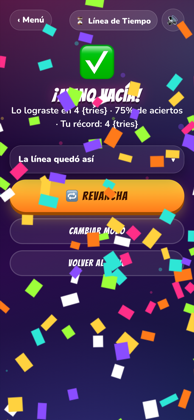
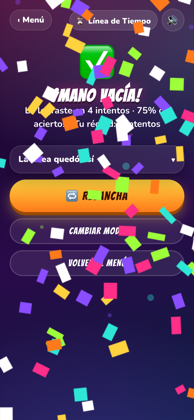
Fix: '{tries}' visible en el solitario; docs del modo solo que quedaron sin escribir

diff --git a/index.html b/index.html
@@ -10,8 +10,8 @@
   <meta name="description" content="Juegos de salón para jugar con amigos: elige un juego, ingresa a los jugadores y deja que el celular guíe la partida.">
   <link rel="manifest" href="manifest.webmanifest">
   <link rel="icon" href="assets/icon.svg" type="image/svg+xml">
-  <script type="importmap" id="importmap">{"imports": {"./assets/js/ui.js": "./assets/js/ui.js?v=0.9.2", "./assets/js/i18n.js": "./assets/js/i18n.js?v=0.9.2", "./assets/js/sound.js": "./assets/js/sound.js?v=0.9.2", "./assets/js/games.js": "./assets/js/games.js?v=0.9.2", "./assets/js/firebase-config.js": "./assets/js/firebase-config.js?v=0.9.2", "./assets/js/frases.js": "./assets/js/frases.js?v=0.9.2", "./cuarto-rey/game.js": "./cuarto-rey/game.js?v=0.9.2", "./cuarto-rey/rules.js": "./cuarto-rey/rules.js?v=0.9.2", "./toque-y-fama/game.js": "./toque-y-fama/game.js?v=0.9.2", "./toque-y-fama/rules.js": "./toque-y-fama/rules.js?v=0.9.2", "./toque-y-fama/engine.js": "./toque-y-fama/engine.js?v=0.9.2", "./assets/js/transport/local.js": "./assets/js/transport/local.js?v=0.9.2", "./assets/js/transport/firebase.js": "./assets/js/transport/firebase.js?v=0.9.2", "./assets/js/handoff.js": "./assets/js/handoff.js?v=0.9.2", "./assets/js/session.js": "./assets/js/session.js?v=0.9.2", "./batalla-naval/game.js": "./batalla-naval/game.js?v=0.9.2", "./batalla-naval/rules.js": "./batalla-naval/rules.js?v=0.9.2", "./batalla-naval/engine.js": "./batalla-naval/engine.js?v=0.9.2", "./linea-de-tiempo/game.js": "./linea-de-tiempo/game.js?v=0.9.2", "./linea-de-tiempo/rules.js": "./linea-de-tiempo/rules.js?v=0.9.2", "./linea-de-tiempo/engine.js": "./linea-de-tiempo/engine.js?v=0.9.2", "./linea-de-tiempo/decks/index.js": "./linea-de-tiempo/decks/index.js?v=0.9.2", "./linea-de-tiempo/decks/historia.js": "./linea-de-tiempo/decks/historia.js?v=0.9.2", "./linea-de-tiempo/decks/musica.js": "./linea-de-tiempo/decks/musica.js?v=0.9.2"}}</script>
-  <link rel="stylesheet" href="assets/css/base.css?v=0.9.2">
+  <script type="importmap" id="importmap">{"imports": {"./assets/js/ui.js": "./assets/js/ui.js?v=0.9.3", "./assets/js/i18n.js": "./assets/js/i18n.js?v=0.9.3", "./assets/js/sound.js": "./assets/js/sound.js?v=0.9.3", "./assets/js/games.js": "./assets/js/games.js?v=0.9.3", "./assets/js/firebase-config.js": "./assets/js/firebase-config.js?v=0.9.3", "./assets/js/frases.js": "./assets/js/frases.js?v=0.9.3", "./cuarto-rey/game.js": "./cuarto-rey/game.js?v=0.9.3", "./cuarto-rey/rules.js": "./cuarto-rey/rules.js?v=0.9.3", "./toque-y-fama/game.js": "./toque-y-fama/game.js?v=0.9.3", "./toque-y-fama/rules.js": "./toque-y-fama/rules.js?v=0.9.3", "./toque-y-fama/engine.js": "./toque-y-fama/engine.js?v=0.9.3", "./assets/js/transport/local.js": "./assets/js/transport/local.js?v=0.9.3", "./assets/js/transport/firebase.js": "./assets/js/transport/firebase.js?v=0.9.3", "./assets/js/handoff.js": "./assets/js/handoff.js?v=0.9.3", "./assets/js/session.js": "./assets/js/session.js?v=0.9.3", "./batalla-naval/game.js": "./batalla-naval/game.js?v=0.9.3", "./batalla-naval/rules.js": "./batalla-naval/rules.js?v=0.9.3", "./batalla-naval/engine.js": "./batalla-naval/engine.js?v=0.9.3", "./linea-de-tiempo/game.js": "./linea-de-tiempo/game.js?v=0.9.3", "./linea-de-tiempo/rules.js": "./linea-de-tiempo/rules.js?v=0.9.3", "./linea-de-tiempo/engine.js": "./linea-de-tiempo/engine.js?v=0.9.3", "./linea-de-tiempo/decks/index.js": "./linea-de-tiempo/decks/index.js?v=0.9.3", "./linea-de-tiempo/decks/historia.js": "./linea-de-tiempo/decks/historia.js?v=0.9.3", "./linea-de-tiempo/decks/musica.js": "./linea-de-tiempo/decks/musica.js?v=0.9.3"}}</script>
+  <link rel="stylesheet" href="assets/css/base.css?v=0.9.3">
   <style>
     .hero { text-align: center; padding: 28px 0 18px; }
     .hero .emoji { font-size: 3.2rem; display: block; margin-bottom: 6px; }
@@ -57,7 +57,7 @@
 
     <footer>
       <p class="footer-msg" id="footer-msg" aria-live="polite">Toma con responsabilidad y con agua a mano. Si manejas, no tomas. 🚕</p>
-      <p class="muted">v0.9.2 · <a href="https://github.com/ellokojavi/juegos-de-salon" style="color:inherit" data-i18n="code">código en GitHub</a></p>
+      <p class="muted">v0.9.3 · <a href="https://github.com/ellokojavi/juegos-de-salon" style="color:inherit" data-i18n="code">código en GitHub</a></p>
     </footer>
   </main>
 

diff --git a/linea-de-tiempo/index.html b/linea-de-tiempo/index.html
@@ -9,9 +9,9 @@
   <title>Línea de Tiempo ⏳ · Juegos de Salón</title>
   <link rel="manifest" href="../manifest.webmanifest">
   <link rel="icon" href="../assets/icon.svg" type="image/svg+xml">
-  <script type="importmap" id="importmap">{"imports": {"../assets/js/ui.js": "../assets/js/ui.js?v=0.9.2", "../assets/js/i18n.js": "../assets/js/i18n.js?v=0.9.2", "../assets/js/sound.js": "../assets/js/sound.js?v=0.9.2", "../assets/js/games.js": "../assets/js/games.js?v=0.9.2", "../assets/js/firebase-config.js": "../assets/js/firebase-config.js?v=0.9.2", "../assets/js/frases.js": "../assets/js/frases.js?v=0.9.2", "../cuarto-rey/game.js": "../cuarto-rey/game.js?v=0.9.2", "../cuarto-rey/rules.js": "../cuarto-rey/rules.js?v=0.9.2", "../toque-y-fama/game.js": "../toque-y-fama/game.js?v=0.9.2", "../toque-y-fama/rules.js": "../toque-y-fama/rules.js?v=0.9.2", "../toque-y-fama/engine.js": "../toque-y-fama/engine.js?v=0.9.2", "../assets/js/transport/local.js": "../assets/js/transport/local.js?v=0.9.2", "../assets/js/transport/firebase.js": "../assets/js/transport/firebase.js?v=0.9.2", "../assets/js/handoff.js": "../assets/js/handoff.js?v=0.9.2", "../assets/js/session.js": "../assets/js/session.js?v=0.9.2", "../batalla-naval/game.js": "../batalla-naval/game.js?v=0.9.2", "../batalla-naval/rules.js": "../batalla-naval/rules.js?v=0.9.2", "../batalla-naval/engine.js": "../batalla-naval/engine.js?v=0.9.2", "../linea-de-tiempo/game.js": "../linea-de-tiempo/game.js?v=0.9.2", "../linea-de-tiempo/rules.js": "../linea-de-tiempo/rules.js?v=0.9.2", "../linea-de-tiempo/engine.js": "../linea-de-tiempo/engine.js?v=0.9.2", "../linea-de-tiempo/decks/index.js": "../linea-de-tiempo/decks/index.js?v=0.9.2", "../linea-de-tiempo/decks/historia.js": "../linea-de-tiempo/decks/historia.js?v=0.9.2", "../linea-de-tiempo/decks/musica.js": "../linea-de-tiempo/decks/musica.js?v=0.9.2"}}</script>
-  <link rel="stylesheet" href="../assets/css/base.css?v=0.9.2">
-  <link rel="stylesheet" href="style.css?v=0.9.2">
+  <script type="importmap" id="importmap">{"imports": {"../assets/js/ui.js": "../assets/js/ui.js?v=0.9.3", "../assets/js/i18n.js": "../assets/js/i18n.js?v=0.9.3", "../assets/js/sound.js": "../assets/js/sound.js?v=0.9.3", "../assets/js/games.js": "../assets/js/games.js?v=0.9.3", "../assets/js/firebase-config.js": "../assets/js/firebase-config.js?v=0.9.3", "../assets/js/frases.js": "../assets/js/frases.js?v=0.9.3", "../cuarto-rey/game.js": "../cuarto-rey/game.js?v=0.9.3", "../cuarto-rey/rules.js": "../cuarto-rey/rules.js?v=0.9.3", "../toque-y-fama/game.js": "../toque-y-fama/game.js?v=0.9.3", "../toque-y-fama/rules.js": "../toque-y-fama/rules.js?v=0.9.3", "../toque-y-fama/engine.js": "../toque-y-fama/engine.js?v=0.9.3", "../assets/js/transport/local.js": "../assets/js/transport/local.js?v=0.9.3", "../assets/js/transport/firebase.js": "../assets/js/transport/firebase.js?v=0.9.3", "../assets/js/handoff.js": "../assets/js/handoff.js?v=0.9.3", "../assets/js/session.js": "../assets/js/session.js?v=0.9.3", "../batalla-naval/game.js": "../batalla-naval/game.js?v=0.9.3", "../batalla-naval/rules.js": "../batalla-naval/rules.js?v=0.9.3", "../batalla-naval/engine.js": "../batalla-naval/engine.js?v=0.9.3", "../linea-de-tiempo/game.js": "../linea-de-tiempo/game.js?v=0.9.3", "../linea-de-tiempo/rules.js": "../linea-de-tiempo/rules.js?v=0.9.3", "../linea-de-tiempo/engine.js": "../linea-de-tiempo/engine.js?v=0.9.3", "../linea-de-tiempo/decks/index.js": "../linea-de-tiempo/decks/index.js?v=0.9.3", "../linea-de-tiempo/decks/historia.js": "../linea-de-tiempo/decks/historia.js?v=0.9.3", "../linea-de-tiempo/decks/musica.js": "../linea-de-tiempo/decks/musica.js?v=0.9.3"}}</script>
+  <link rel="stylesheet" href="../assets/css/base.css?v=0.9.3">
+  <link rel="stylesheet" href="style.css?v=0.9.3">
 </head>
 <body>
   <main class="app" id="app">

diff --git a/batalla-naval/index.html b/batalla-naval/index.html
@@ -9,9 +9,9 @@
   <title>Batalla Naval ⚓ · Juegos de Salón</title>
   <link rel="manifest" href="../manifest.webmanifest">
   <link rel="icon" href="../assets/icon.svg" type="image/svg+xml">
-  <script type="importmap" id="importmap">{"imports": {"../assets/js/ui.js": "../assets/js/ui.js?v=0.9.2", "../assets/js/i18n.js": "../assets/js/i18n.js?v=0.9.2", "../assets/js/sound.js": "../assets/js/sound.js?v=0.9.2", "../assets/js/games.js": "../assets/js/games.js?v=0.9.2", "../assets/js/firebase-config.js": "../assets/js/firebase-config.js?v=0.9.2", "../assets/js/frases.js": "../assets/js/frases.js?v=0.9.2", "../cuarto-rey/game.js": "../cuarto-rey/game.js?v=0.9.2", "../cuarto-rey/rules.js": "../cuarto-rey/rules.js?v=0.9.2", "../toque-y-fama/game.js": "../toque-y-fama/game.js?v=0.9.2", "../toque-y-fama/rules.js": "../toque-y-fama/rules.js?v=0.9.2", "../toque-y-fama/engine.js": "../toque-y-fama/engine.js?v=0.9.2", "../assets/js/transport/local.js": "../assets/js/transport/local.js?v=0.9.2", "../assets/js/transport/firebase.js": "../assets/js/transport/firebase.js?v=0.9.2", "../assets/js/handoff.js": "../assets/js/handoff.js?v=0.9.2", "../assets/js/session.js": "../assets/js/session.js?v=0.9.2", "../batalla-naval/game.js": "../batalla-naval/game.js?v=0.9.2", "../batalla-naval/rules.js": "../batalla-naval/rules.js?v=0.9.2", "../batalla-naval/engine.js": "../batalla-naval/engine.js?v=0.9.2", "../linea-de-tiempo/game.js": "../linea-de-tiempo/game.js?v=0.9.2", "../linea-de-tiempo/rules.js": "../linea-de-tiempo/rules.js?v=0.9.2", "../linea-de-tiempo/engine.js": "../linea-de-tiempo/engine.js?v=0.9.2", "../linea-de-tiempo/decks/index.js": "../linea-de-tiempo/decks/index.js?v=0.9.2", "../linea-de-tiempo/decks/historia.js": "../linea-de-tiempo/decks/historia.js?v=0.9.2", "../linea-de-tiempo/decks/musica.js": "../linea-de-tiempo/decks/musica.js?v=0.9.2"}}</script>
-  <link rel="stylesheet" href="../assets/css/base.css?v=0.9.2">
-  <link rel="stylesheet" href="style.css?v=0.9.2">
+  <script type="importmap" id="importmap">{"imports": {"../assets/js/ui.js": "../assets/js/ui.js?v=0.9.3", "../assets/js/i18n.js": "../assets/js/i18n.js?v=0.9.3", "../assets/js/sound.js": "../assets/js/sound.js?v=0.9.3", "../assets/js/games.js": "../assets/js/games.js?v=0.9.3", "../assets/js/firebase-config.js": "../assets/js/firebase-config.js?v=0.9.3", "../assets/js/frases.js": "../assets/js/frases.js?v=0.9.3", "../cuarto-rey/game.js": "../cuarto-rey/game.js?v=0.9.3", "../cuarto-rey/rules.js": "../cuarto-rey/rules.js?v=0.9.3", "../toque-y-fama/game.js": "../toque-y-fama/game.js?v=0.9.3", "../toque-y-fama/rules.js": "../toque-y-fama/rules.js?v=0.9.3", "../toque-y-fama/engine.js": "../toque-y-fama/engine.js?v=0.9.3", "../assets/js/transport/local.js": "../assets/js/transport/local.js?v=0.9.3", "../assets/js/transport/firebase.js": "../assets/js/transport/firebase.js?v=0.9.3", "../assets/js/handoff.js": "../assets/js/handoff.js?v=0.9.3", "../assets/js/session.js": "../assets/js/session.js?v=0.9.3", "../batalla-naval/game.js": "../batalla-naval/game.js?v=0.9.3", "../batalla-naval/rules.js": "../batalla-naval/rules.js?v=0.9.3", "../batalla-naval/engine.js": "../batalla-naval/engine.js?v=0.9.3", "../linea-de-tiempo/game.js": "../linea-de-tiempo/game.js?v=0.9.3", "../linea-de-tiempo/rules.js": "../linea-de-tiempo/rules.js?v=0.9.3", "../linea-de-tiempo/engine.js": "../linea-de-tiempo/engine.js?v=0.9.3", "../linea-de-tiempo/decks/index.js": "../linea-de-tiempo/decks/index.js?v=0.9.3", "../linea-de-tiempo/decks/historia.js": "../linea-de-tiempo/decks/historia.js?v=0.9.3", "../linea-de-tiempo/decks/musica.js": "../linea-de-tiempo/decks/musica.js?v=0.9.3"}}</script>
+  <link rel="stylesheet" href="../assets/css/base.css?v=0.9.3">
+  <link rel="stylesheet" href="style.css?v=0.9.3">
 </head>
 <body>
   <main class="app" id="app">

diff --git a/toque-y-fama/index.html b/toque-y-fama/index.html
@@ -9,9 +9,9 @@
   <title>Toque y Fama 🔢 · Juegos de Salón</title>
   <link rel="manifest" href="../manifest.webmanifest">
   <link rel="icon" href="../assets/icon.svg" type="image/svg+xml">
-  <script type="importmap" id="importmap">{"imports": {"../assets/js/ui.js": "../assets/js/ui.js?v=0.9.2", "../assets/js/i18n.js": "../assets/js/i18n.js?v=0.9.2", "../assets/js/sound.js": "../assets/js/sound.js?v=0.9.2", "../assets/js/games.js": "../assets/js/games.js?v=0.9.2", "../assets/js/firebase-config.js": "../assets/js/firebase-config.js?v=0.9.2", "../assets/js/frases.js": "../assets/js/frases.js?v=0.9.2", "../cuarto-rey/game.js": "../cuarto-rey/game.js?v=0.9.2", "../cuarto-rey/rules.js": "../cuarto-rey/rules.js?v=0.9.2", "../toque-y-fama/game.js": "../toque-y-fama/game.js?v=0.9.2", "../toque-y-fama/rules.js": "../toque-y-fama/rules.js?v=0.9.2", "../toque-y-fama/engine.js": "../toque-y-fama/engine.js?v=0.9.2", "../assets/js/transport/local.js": "../assets/js/transport/local.js?v=0.9.2", "../assets/js/transport/firebase.js": "../assets/js/transport/firebase.js?v=0.9.2", "../assets/js/handoff.js": "../assets/js/handoff.js?v=0.9.2", "../assets/js/session.js": "../assets/js/session.js?v=0.9.2", "../batalla-naval/game.js": "../batalla-naval/game.js?v=0.9.2", "../batalla-naval/rules.js": "../batalla-naval/rules.js?v=0.9.2", "../batalla-naval/engine.js": "../batalla-naval/engine.js?v=0.9.2", "../linea-de-tiempo/game.js": "../linea-de-tiempo/game.js?v=0.9.2", "../linea-de-tiempo/rules.js": "../linea-de-tiempo/rules.js?v=0.9.2", "../linea-de-tiempo/engine.js": "../linea-de-tiempo/engine.js?v=0.9.2", "../linea-de-tiempo/decks/index.js": "../linea-de-tiempo/decks/index.js?v=0.9.2", "../linea-de-tiempo/decks/historia.js": "../linea-de-tiempo/decks/historia.js?v=0.9.2", "../linea-de-tiempo/decks/musica.js": "../linea-de-tiempo/decks/musica.js?v=0.9.2"}}</script>
-  <link rel="stylesheet" href="../assets/css/base.css?v=0.9.2">
-  <link rel="stylesheet" href="style.css?v=0.9.2">
+  <script type="importmap" id="importmap">{"imports": {"../assets/js/ui.js": "../assets/js/ui.js?v=0.9.3", "../assets/js/i18n.js": "../assets/js/i18n.js?v=0.9.3", "../assets/js/sound.js": "../assets/js/sound.js?v=0.9.3", "../assets/js/games.js": "../assets/js/games.js?v=0.9.3", "../assets/js/firebase-config.js": "../assets/js/firebase-config.js?v=0.9.3", "../assets/js/frases.js": "../assets/js/frases.js?v=0.9.3", "../cuarto-rey/game.js": "../cuarto-rey/game.js?v=0.9.3", "../cuarto-rey/rules.js": "../cuarto-rey/rules.js?v=0.9.3", "../toque-y-fama/game.js": "../toque-y-fama/game.js?v=0.9.3", "../toque-y-fama/rules.js": "../toque-y-fama/rules.js?v=0.9.3", "../toque-y-fama/engine.js": "../toque-y-fama/engine.js?v=0.9.3", "../assets/js/transport/local.js": "../assets/js/transport/local.js?v=0.9.3", "../assets/js/transport/firebase.js": "../assets/js/transport/firebase.js?v=0.9.3", "../assets/js/handoff.js": "../assets/js/handoff.js?v=0.9.3", "../assets/js/session.js": "../assets/js/session.js?v=0.9.3", "../batalla-naval/game.js": "../batalla-naval/game.js?v=0.9.3", "../batalla-naval/rules.js": "../batalla-naval/rules.js?v=0.9.3", "../batalla-naval/engine.js": "../batalla-naval/engine.js?v=0.9.3", "../linea-de-tiempo/game.js": "../linea-de-tiempo/game.js?v=0.9.3", "../linea-de-tiempo/rules.js": "../linea-de-tiempo/rules.js?v=0.9.3", "../linea-de-tiempo/engine.js": "../linea-de-tiempo/engine.js?v=0.9.3", "../linea-de-tiempo/decks/index.js": "../linea-de-tiempo/decks/index.js?v=0.9.3", "../linea-de-tiempo/decks/historia.js": "../linea-de-tiempo/decks/historia.js?v=0.9.3", "../linea-de-tiempo/decks/musica.js": "../linea-de-tiempo/decks/musica.js?v=0.9.3"}}</script>
+  <link rel="stylesheet" href="../assets/css/base.css?v=0.9.3">
+  <link rel="stylesheet" href="style.css?v=0.9.3">
 </head>
 <body>
   <main class="app" id="app">

diff --git a/cuarto-rey/index.html b/cuarto-rey/index.html
@@ -9,9 +9,9 @@
   <title>Cuarto Rey 👑 · Juegos de Salón</title>
   <link rel="manifest" href="../manifest.webmanifest">
   <link rel="icon" href="../assets/icon.svg" type="image/svg+xml">
-  <script type="importmap" id="importmap">{"imports": {"../assets/js/ui.js": "../assets/js/ui.js?v=0.9.2", "../assets/js/i18n.js": "../assets/js/i18n.js?v=0.9.2", "../assets/js/sound.js": "../assets/js/sound.js?v=0.9.2", "../assets/js/games.js": "../assets/js/games.js?v=0.9.2", "../assets/js/firebase-config.js": "../assets/js/firebase-config.js?v=0.9.2", "../assets/js/frases.js": "../assets/js/frases.js?v=0.9.2", "../cuarto-rey/game.js": "../cuarto-rey/game.js?v=0.9.2", "../cuarto-rey/rules.js": "../cuarto-rey/rules.js?v=0.9.2", "../toque-y-fama/game.js": "../toque-y-fama/game.js?v=0.9.2", "../toque-y-fama/rules.js": "../toque-y-fama/rules.js?v=0.9.2", "../toque-y-fama/engine.js": "../toque-y-fama/engine.js?v=0.9.2", "../assets/js/transport/local.js": "../assets/js/transport/local.js?v=0.9.2", "../assets/js/transport/firebase.js": "../assets/js/transport/firebase.js?v=0.9.2", "../assets/js/handoff.js": "../assets/js/handoff.js?v=0.9.2", "../assets/js/session.js": "../assets/js/session.js?v=0.9.2", "../batalla-naval/game.js": "../batalla-naval/game.js?v=0.9.2", "../batalla-naval/rules.js": "../batalla-naval/rules.js?v=0.9.2", "../batalla-naval/engine.js": "../batalla-naval/engine.js?v=0.9.2", "../linea-de-tiempo/game.js": "../linea-de-tiempo/game.js?v=0.9.2", "../linea-de-tiempo/rules.js": "../linea-de-tiempo/rules.js?v=0.9.2", "../linea-de-tiempo/engine.js": "../linea-de-tiempo/engine.js?v=0.9.2", "../linea-de-tiempo/decks/index.js": "../linea-de-tiempo/decks/index.js?v=0.9.2", "../linea-de-tiempo/decks/historia.js": "../linea-de-tiempo/decks/historia.js?v=0.9.2", "../linea-de-tiempo/decks/musica.js": "../linea-de-tiempo/decks/musica.js?v=0.9.2"}}</script>
-  <link rel="stylesheet" href="../assets/css/base.css?v=0.9.2">
-  <link rel="stylesheet" href="style.css?v=0.9.2">
+  <script type="importmap" id="importmap">{"imports": {"../assets/js/ui.js": "../assets/js/ui.js?v=0.9.3", "../assets/js/i18n.js": "../assets/js/i18n.js?v=0.9.3", "../assets/js/sound.js": "../assets/js/sound.js?v=0.9.3", "../assets/js/games.js": "../assets/js/games.js?v=0.9.3", "../assets/js/firebase-config.js": "../assets/js/firebase-config.js?v=0.9.3", "../assets/js/frases.js": "../assets/js/frases.js?v=0.9.3", "../cuarto-rey/game.js": "../cuarto-rey/game.js?v=0.9.3", "../cuarto-rey/rules.js": "../cuarto-rey/rules.js?v=0.9.3", "../toque-y-fama/game.js": "../toque-y-fama/game.js?v=0.9.3", "../toque-y-fama/rules.js": "../toque-y-fama/rules.js?v=0.9.3", "../toque-y-fama/engine.js": "../toque-y-fama/engine.js?v=0.9.3", "../assets/js/transport/local.js": "../assets/js/transport/local.js?v=0.9.3", "../assets/js/transport/firebase.js": "../assets/js/transport/firebase.js?v=0.9.3", "../assets/js/handoff.js": "../assets/js/handoff.js?v=0.9.3", "../assets/js/session.js": "../assets/js/session.js?v=0.9.3", "../batalla-naval/game.js": "../batalla-naval/game.js?v=0.9.3", "../batalla-naval/rules.js": "../batalla-naval/rules.js?v=0.9.3", "../batalla-naval/engine.js": "../batalla-naval/engine.js?v=0.9.3", "../linea-de-tiempo/game.js": "../linea-de-tiempo/game.js?v=0.9.3", "../linea-de-tiempo/rules.js": "../linea-de-tiempo/rules.js?v=0.9.3", "../linea-de-tiempo/engine.js": "../linea-de-tiempo/engine.js?v=0.9.3", "../linea-de-tiempo/decks/index.js": "../linea-de-tiempo/decks/index.js?v=0.9.3", "../linea-de-tiempo/decks/historia.js": "../linea-de-tiempo/decks/historia.js?v=0.9.3", "../linea-de-tiempo/decks/musica.js": "../linea-de-tiempo/decks/musica.js?v=0.9.3"}}</script>
+  <link rel="stylesheet" href="../assets/css/base.css?v=0.9.3">
+  <link rel="stylesheet" href="style.css?v=0.9.3">
 </head>
 <body>
   <main class="app" id="app">

diff --git a/linea-de-tiempo/game.js b/linea-de-tiempo/game.js
@@ -204,7 +204,7 @@ function renderPlay(v) {
   $('#status-who').textContent = S.mode === 'solo' ? T.soloTitle : (isLocalTurn ? fmt(T.turnYou, { name: M.names[v.current] }) : fmt(T.turnOther, { name: M.names[v.current] }));
   const offline = S.mode === 'online' ? M.players?.length && ROLES.find(r => M.presence[r]?.online === false && M.names[r]) : null;
   const record = S.mode === 'solo' ? records.get(M.config.theme, M.config.handSize) : null;
-  $('#status-sub').textContent = S.mode === 'solo' ? `${fmt(T.soloStatus, { ok: okCount, n: v.history.length })}${record ? ' · ' + fmt(T.soloRecord, { n: record }) : ''}`
+  $('#status-sub').textContent = S.mode === 'solo' ? `${fmt(T.soloStatus, { ok: okCount, n: v.history.length, tries: triesWord(v.history.length) })}${record ? ' · ' + fmt(T.soloRecord, { n: record, tries: triesWord(record) }) : ''}`
     : isLocalTurn ? (S.selCard ? T.pickSlot : T.pickCard)
     : offline ? fmt(T.offline, { name: M.names[offline] })
     : (S.mode === 'online' ? fmt(T.waitingTurn, { name: M.names[v.current] }) : '');
@@ -307,6 +307,7 @@ function verdictStage(last, v, nextName) {
 }
 
 const cardsLabel = n => (n === 0 ? T.noCards : n === 1 ? T.cardHeld : fmt(T.cardsHeld, { n }));
+const triesWord = n => (n === 1 ? T.tryOne : T.tryMany);
 
 function renderResult(v) {
   const already = $('#screen-result').classList.contains('active');
@@ -322,7 +323,7 @@ function renderResult(v) {
     const isRecord = !prev || tries < prev;
     if (!already && isRecord) records.set(M.config.theme, M.config.handSize, tries);
     $('#result-title').textContent = T.soloDone;
-    $('#result-sub').textContent = `${fmt(T.soloResult, { n: tries, acc })} · ${isRecord ? T.newRecord : fmt(T.prevRecord, { n: prev })}`;
+    $('#result-sub').textContent = `${fmt(T.soloResult, { n: tries, acc, tries: triesWord(tries) })} · ${isRecord ? T.newRecord : fmt(T.prevRecord, { n: prev, tries: triesWord(prev) })}`;
     $('#result-trophy').textContent = isRecord ? '🏆' : '✅';
   } else {
     $('#result-title').textContent = many ? T.winTitleMany : fmt(T.winTitle, { name: M.names[winners[0]] });

diff --git a/docs/juegos/linea-de-tiempo.md b/docs/juegos/linea-de-tiempo.md
@@ -36,13 +36,14 @@ naturaleza del juego:
 | Modo | Jugadores | Transporte |
 |---|---|---|
 | 📱 Un celular | 2 a 6 | `local` |
-| 🤖 Contra el celular | 1 humano + 1 IA | `local` + bot |
+| 🧍 Jugar solo | 1 | `local` |
 | 📡 Varios celulares | 2 a 6 | `firebase` |
 
 En varios celulares, el anfitrión (rol A) crea la sala y abre la partida con el botón **Empezar** cuando hay al menos dos jugadores; el mensaje `start` fija el orden. Cada celular ve solo su mano, y el veredicto de cada jugada se muestra a todos y se cierra solo.
 
-La IA conoce los años (son públicos) y falla a propósito según la dificultad: fácil acierta poco y
-se equivoca por mucho, difícil casi siempre acierta. Se configura al empezar.
+En solitario no hay rival: el objetivo es vaciar la mano en la menor cantidad de intentos. Se guarda un
+récord personal por temática y tamaño de mano. Se descartó jugar contra una IA porque la máquina conoce
+los años y la partida no tenía sentido (D-27).
 
 ## 4. Estado y protocolo
 
@@ -108,7 +109,7 @@ linea-de-tiempo/
 | 3 | Sonidos, capturas, documentación |
 
 ## 8b. Estado de la implementación (v0.8)
-- Fase 1 lista: mazos de Historia (98 cartas) y Música (89), motor con tests, modo un celular de 2 a 6 jugadores y modo contra el celular con tres niveles.
+- Fase 1 lista: mazos de Historia (98 cartas) y Música (89), motor con tests, modo un celular de 2 a 6 jugadores y modo solitario con récord (v0.9.2; antes había una IA, ver D-27).
 - Memoria de partida en ambos modos (canon C-6), incluida la selección de temática.
 - Fase 2 lista (v0.9): varios celulares de 2 a 6 con sala, QR, lobby con la lista de quienes van llegando, botón de empezar del anfitrión, reconexión, presencia y revancha que mueve a todos a la sala nueva.
 - Reglas de Firebase ampliadas de A–B a A–F.

diff --git a/docs/DECISIONES.md b/docs/DECISIONES.md
@@ -122,3 +122,9 @@ Registro tipo ADR (Architecture Decision Record). Las decisiones se numeran y no
 ## D-26 · Cánones escritos en el repo
 **Decisión:** `docs/CANONES.md` reúne las reglas de construcción de todos los juegos (C-1 a C-14) con una lista de chequeo final, y `CLAUDE.md` en la raíz apunta a él para que se cargue como contexto al abrir el proyecto.
 **Por qué:** Las convenciones estaban repartidas entre decisiones sueltas y el código de cada juego. Un solo archivo evita que cada juego nuevo redescubra o contradiga lo ya acordado.
+
+## D-27 · Línea de Tiempo: solitario en vez de IA
+**Fecha:** 2026-09-09 · **Estado:** vigente
+**Decisión:** El modo individual de Línea de Tiempo es un solitario con puntaje (vaciar la mano en la menor cantidad de intentos, con récord por temática y tamaño de mano), no una partida contra el celular.
+**Por qué:** Toda la información del juego es pública: la máquina conoce los años, así que solo podía ganar o dejarse ganar a propósito. Eso no es un rival, es un número al azar. Un récord personal sí da motivo para volver a jugar.
+**Consecuencias:** El canon C-5 admite que el tercer modo sea "contra el celular" o "jugar solo", según el juego tenga o no información oculta que le dé sentido a una IA.

diff --git a/README.md b/README.md
@@ -12,7 +12,7 @@ App web (mobile-first) con juegos de salón para jugar con amigos: de naipes, de
 |---|---|---|---|
 | 👑 [Cuarto Rey / Fourth King](#-cuarto-rey) | 4 a 6 | Un celular en la mesa | v0.3 |
 | 🔢 [Toque y Fama / Bulls and Cows](#-toque-y-fama) | 1 a 2 | Un celular · Dos celulares · Contra el celular | v0.5 |
-| ⏳ [Línea de Tiempo / Timeline](#-línea-de-tiempo) | 1 a 6 | Un celular · Varios celulares · Contra el celular | v0.9 |
+| ⏳ [Línea de Tiempo / Timeline](#-línea-de-tiempo) | 1 a 6 | Un celular · Varios celulares · Solitario | v0.9 |
 | ⚓ [Batalla Naval / Battleship](#-batalla-naval) | 1 a 2 | Un celular · Dos celulares · Contra el celular | v0.6 |
 
 ---
@@ -94,7 +94,7 @@ Recibes hitos sin fecha y los ubicas en el lugar correcto de una línea de tiemp
 
 - **📱 Un celular:** de dos a seis jugadores, pasando el celular por turnos.
 - **📡 Varios celulares:** sala con código y QR, hasta seis jugadores. El anfitrión abre la partida cuando están todos, y cada uno ve su propia mano.
-- **🤖 Contra el celular:** tres niveles, de una máquina distraída a una casi infalible.
+- **🧍 Jugar solo:** vacía tu mano en la menor cantidad de intentos y supera tu récord por temática.
 
 <table>
   <tr>

diff --git a/CHANGELOG.md b/CHANGELOG.md
@@ -1,5 +1,11 @@
 # Changelog
 
+## 0.9.3 — 2026-09-09
+- Fix: el solitario de Línea de Tiempo mostraba “{tries}” en vez de “intentos” (se publicó a medias la versión anterior).
+
+## 0.9.2 — 2026-09-09
+- Línea de Tiempo: el modo contra el celular se reemplaza por **Jugar solo**: vaciar la mano en la menor cantidad de intentos, con récord personal por temática y tamaño de mano. Una IA no tenía sentido porque los años son públicos (D-27).
+
 ## 0.9.1 — 2026-09-09
 - Línea de Tiempo: al equivocarse, la pantalla se tiñe de rojo, la carta se sacude y aparece una explicación de dónde iba el hito y dónde se puso. Se queda hasta que el jugador toca. Contra el celular no había señal visual del error y en varios celulares se cerraba a los dos segundos.
 - Línea de Tiempo: el celular espera a que no haya un veredicto en pantalla antes de jugar, y un veredicto viejo ya no puede cerrar uno nuevo.

diff --git a/docs/REQUERIMIENTOS.md b/docs/REQUERIMIENTOS.md
@@ -100,7 +100,7 @@ Documento vivo. Cada requerimiento tiene un ID para poder referenciarlo desde de
 | LT-03 | Acierto: la carta entra en la línea. Error: se descarta y el jugador roba otra. | ✅ v0.8 |
 | LT-04 | Gana quien se queda sin cartas. Mano configurable de 3, 5 o 7. | ✅ v0.8 |
 | LT-05 | Modo un celular de 2 a 6 jugadores, con pase entre turnos. | ✅ v0.8 |
-| LT-06 | Modo contra el celular con tres niveles de dificultad. | ✅ v0.8 |
+| LT-06 | Modo solitario: vaciar la mano en la menor cantidad de intentos, con récord por temática y mano. | ✅ v0.9.2 |
 | LT-07 | Modo varios celulares de 2 a 6 (roles A–F), con lobby y anfitrión que abre la partida. | ✅ v0.9 |
 | LT-08 | Mazo determinista por semilla, para que todos los dispositivos vean el mismo reparto. | ✅ v0.8 |
 | LT-09 | Memoria de partida en todos los modos (canon C-6). | ✅ v0.8 |

diff --git a/docs/CANONES.md b/docs/CANONES.md
@@ -58,7 +58,7 @@ Un juego para dos personas ofrece los tres modos, en este orden en la intro:
 
 1. **📱 Un celular** (pasar y jugar). Es el modo base y el respaldo cuando la red falla.
 2. **📡 Dos celulares** (sala con código de 4 letras y QR).
-3. **🤖 Contra el celular** (IA), que además permite jugar solo. La tarjeta del menú dice "1–2 jugadores".
+3. **Un jugador**: **🤖 Contra el celular** cuando el juego tiene información oculta que le da sentido a una IA (Toque y Fama, Batalla Naval), o **🧍 Jugar solo** con puntaje y récord cuando toda la información es pública (Línea de Tiempo, ver D-27). La tarjeta del menú dice "1–N jugadores".
 
 Un modo que todavía no existe se muestra deshabilitado con "Próximamente", nunca se oculta.
 
